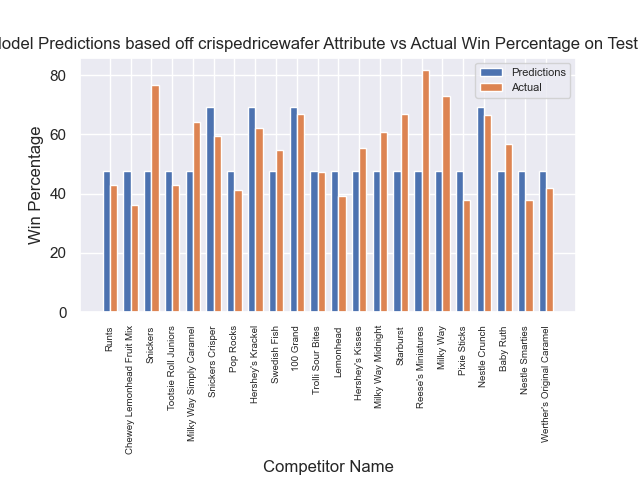
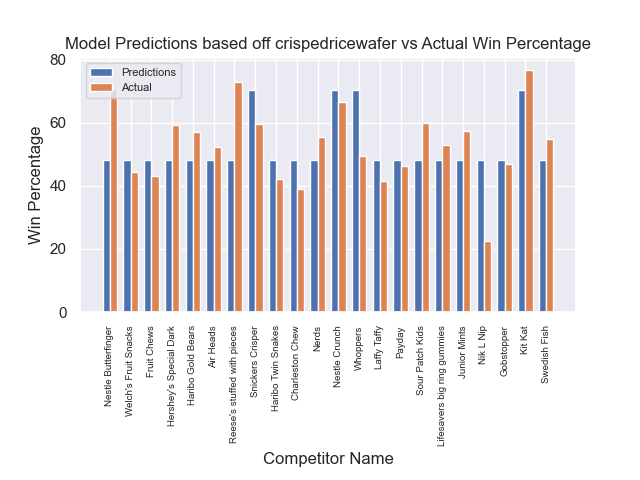
flake8 passed for main.py

diff --git a/main.py b/main.py
@@ -13,72 +13,79 @@ from sklearn.model_selection import train_test_split
 import numpy as np
 from sklearn.metrics import mean_squared_error
 
+
 def main():
-	"""
-	Runs methods that generate graphs for model predictions 
-	vs actual win percentages based off every
-	attribute as a whole and individually
-	"""
-	sns.set()
-	data = pd.read_csv('candy-data.csv')
-	data = data.dropna()
-	data = data.set_index('competitorname')
-	question_one(data)
-	question_two(data)
+    """
+    Runs methods that generate graphs for model predictions
+    vs actual win percentages based off every
+    attribute as a whole and individually
+    """
+    sns.set()
+    data = pd.read_csv('candy-data.csv')
+    data = data.dropna()
+    data = data.set_index('competitorname')
+    question_one(data)
+    question_two(data)
+
 
 def question_one(data):
-	"""
-	Plots predicted from model vs actual win percentage based off all
-	candy attribute as a whole. Takes dataset as parameter.
-	"""
-	features = data.loc[:, (data.columns != 'winpercent')]
-	labels = data['winpercent']
-	mean_sq_err = plot_predictions_vs_actual(features, labels)
-	print('Total: ' + str(mean_sq_err))
-	plt.title("Model Predictions vs Actual Win Percentage on Test Set")
-	plt.savefig('model_predictions_vs_actual.png')
+    """
+    Plots predicted from model vs actual win percentage based off all
+    candy attribute as a whole. Takes dataset as parameter.
+    """
+    features = data.loc[:, (data.columns != 'winpercent')]
+    labels = data['winpercent']
+    mean_sq_err = plot_pred_vs_actual(features, labels)
+    print('Total: ' + str(mean_sq_err))
+    plt.title("Model Predictions based on All Attributes" +
+              "vs Actual Win Percentage")
+    plt.savefig('model_predictions_vs_actual.png')
+
 
 def question_two(data):
-	"""
-	Plots predicted from model vs actual win percentage based off each
-	candy attribute individually. Takes dataset as parameter.
-	"""
-	features = data.loc[:, (data.columns != 'winpercent')]
-	labels = data['winpercent']
-	for feature in features.columns:
-		mean_sq_err = plot_predictions_vs_actual(data[feature].values.reshape(-1, 1), labels)
-		print(feature + ": " + str(mean_sq_err))
-		plt.title("Model Predictions based off " + feature + " Attribute vs Actual Win Percentage on Test Set")
-		plt.savefig(feature + '_model_predictions_vs_actual.png')	
+    """
+    Plots predicted from model vs actual win percentage based off each
+    candy attribute individually. Takes dataset as parameter.
+    """
+    features = data.loc[:, (data.columns != 'winpercent')]
+    labels = data['winpercent']
+    for feature in features.columns:
+        mean_sq_err = plot_pred_vs_actual(
+                      data[feature].values.reshape(-1, 1), labels)
+        print(feature + ": " + str(mean_sq_err))
+        plt.title("Model Predictions based off " + feature +
+                  " vs Actual Win Percentage")
+        plt.savefig(feature + '_model_predictions_vs_actual.png')
 
-def plot_predictions_vs_actual(features, labels):
-	"""
-	Returns mean squared error for model predictions vs
-	actual win percentage on test set.
-	Helper method to generate plots for ML models based on a 
-	set of features and labels. Takes a dataframe features
-	and dataframe labels as input.
-	"""
-	features_train, features_test, labels_train, labels_test = \
-		train_test_split(features, labels, test_size=0.25)
-	x_axis = labels_test.index
-	x = np.arange(len(x_axis))
-	width = 0.35
-	model = DecisionTreeRegressor()
-	model.fit(features_train, labels_train)
-	predictions = model.predict(features_test)
-	fig, ax = plt.subplots()
-	ax.bar(x-width/2, predictions, width, label='Predictions')
-	ax.bar(x + width/2, list(labels_test), width, label='Actual')
-	ax.set_xticks(x)
-	ax.set_xticklabels(x_axis, size = 7)
-	ax.legend(fontsize = 8 )
-	plt.xlabel("Competitor Name")
-	plt.ylabel("Win Percentage")
-	plt.xticks(rotation=90)
-	plt.subplots_adjust(bottom=0.35)
-	return mean_squared_error(labels_test, model.predict(features_test))
-	
+
+def plot_pred_vs_actual(features, labels):
+    """
+    Returns mean squared error for model predictions vs
+    actual win percentage on test set.
+    Helper method to generate plots for ML models based on a
+    set of features and labels. Takes a dataframe features
+    and dataframe labels as input.
+    """
+    features_train, features_test, labels_train, labels_test = \
+        train_test_split(features, labels, test_size=0.25)
+    x_axis = labels_test.index
+    x = np.arange(len(x_axis))
+    width = 0.35
+    model = DecisionTreeRegressor()
+    model.fit(features_train, labels_train)
+    predictions = model.predict(features_test)
+    fig, ax = plt.subplots()
+    ax.bar(x-width/2, predictions, width, label='Predictions')
+    ax.bar(x + width/2, list(labels_test), width, label='Actual')
+    ax.set_xticks(x)
+    ax.set_xticklabels(x_axis, size=7)
+    ax.legend(fontsize=8)
+    plt.xlabel("Competitor Name")
+    plt.ylabel("Win Percentage")
+    plt.xticks(rotation=90)
+    plt.subplots_adjust(bottom=0.35)
+    return mean_squared_error(labels_test, model.predict(features_test))
+
 
 if __name__ == "__main__":
-	main()
+    main()
